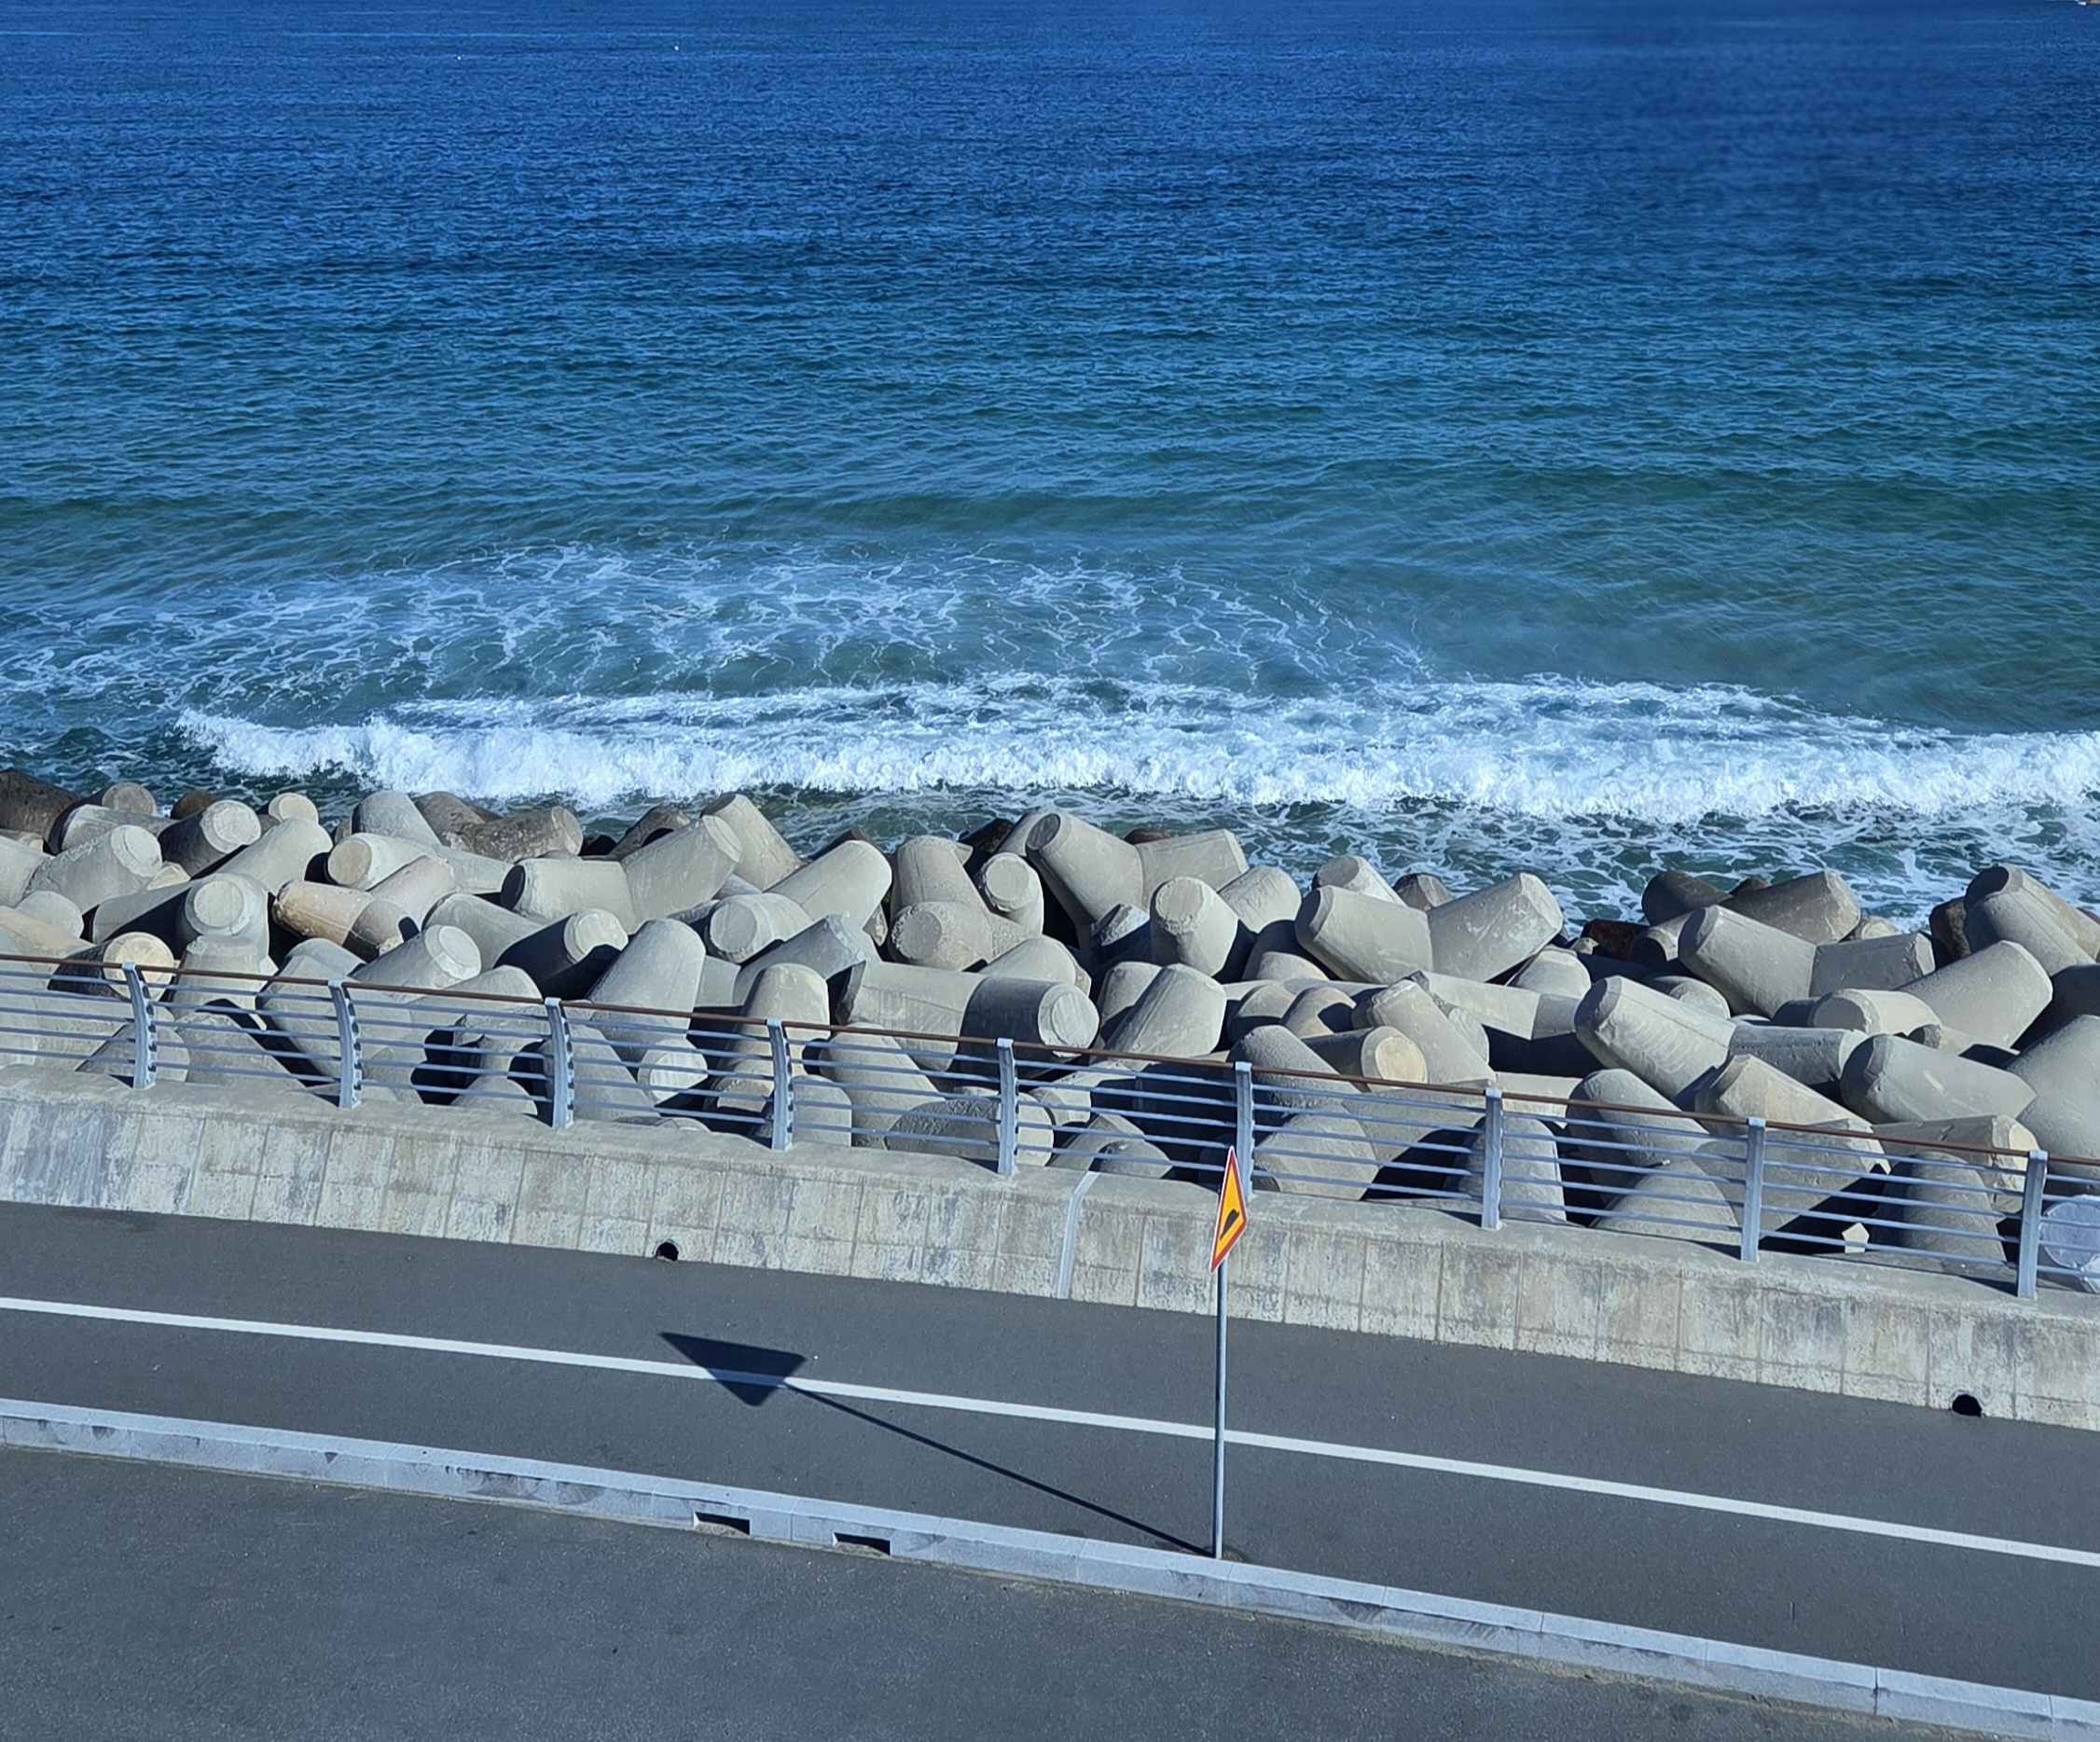
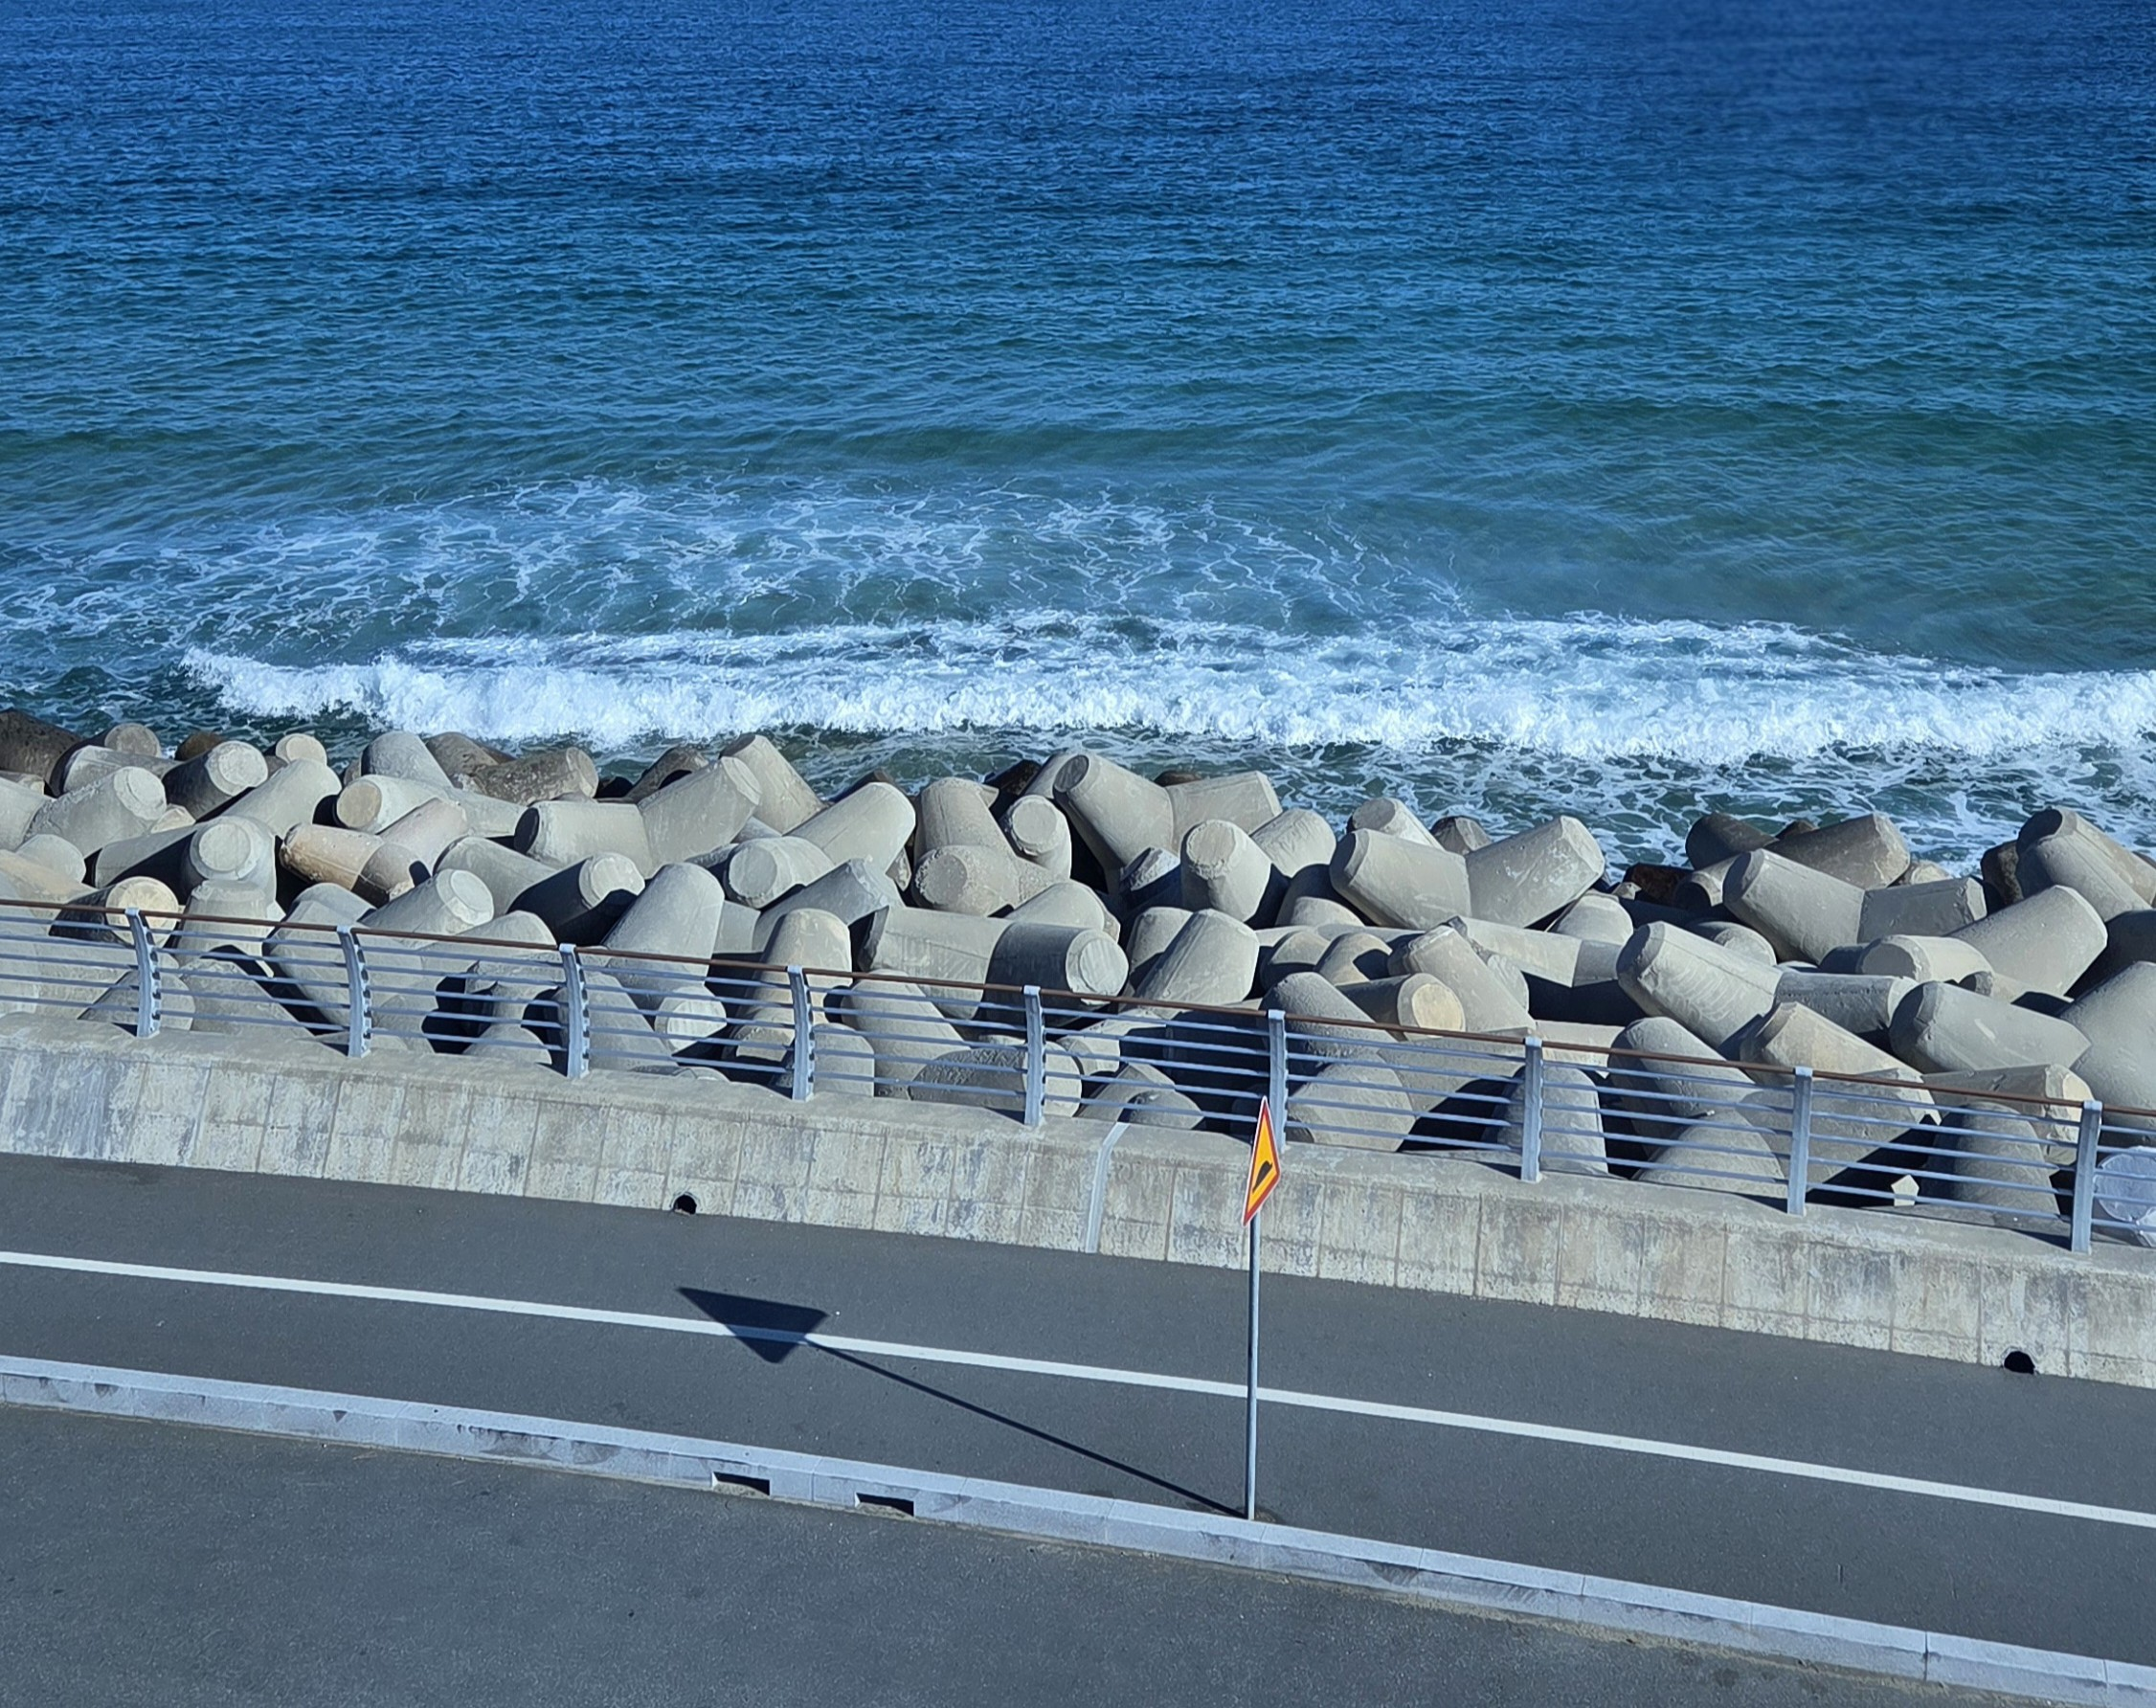
Design: home page

diff --git a/assets/built/home.custom.css b/assets/built/home.custom.css
@@ -111,25 +111,16 @@ html {
 }
 
 .home-template .post-feed .post-card.profile-summary-card h2.profile-summary-title {
-    margin: 0 0 0.9rem;
+    margin: 1.0rem 0.0rem 2.0rem 0.9rem;
     font-size: 2.0rem;
     line-height: 1.25;
     letter-spacing: -0.02em;
 }
 
 .home-template .post-feed .profile-summary-card .profile-summary-line {
-    margin: 0.85rem 0 0.35rem;
+    margin: 0.35rem 0 0.35rem;
     font-size: 1.5rem;
     line-height: 1.5em;
-}
-
-.home-template .post-feed .profile-summary-card .profile-summary-body .profile-summary-line:nth-of-type(1),
-.home-template .post-feed .profile-summary-card .profile-summary-body .profile-summary-line:nth-of-type(3) {
-    margin-bottom: 1.75rem;
-}
-
-.home-template .post-feed .profile-summary-card .profile-summary-body .profile-summary-line:nth-of-type(2) {
-    margin-bottom: 0.00rem;
 }
 
 .skill-meter-list {
@@ -153,7 +144,7 @@ html {
 }
 
 .profile-skill-logo-list {
-    margin-top: 0.45rem;
+    margin-top: 2.45rem;
     display: flex;
     flex-wrap: wrap;
     gap: 0.9rem;

diff --git a/index.html b/index.html
@@ -46,8 +46,7 @@
                             <img class="profile-passport" src="/assets/built/images/kangkyungeun.png" alt="Profile placeholder" />
                             <div class="profile-summary-body">
                                 <span class="post-card-tags">Profile</span>
-                                <h2 class="profile-summary-title">강경은 | SIRIS</h2>
-                                <p class="profile-summary-line"><strong>"안녕하세요, HW와 SW를 잇는 개발자 강경은입니다."</strong></p>
+                                <h2 class="profile-summary-title">"HW와 SW를 잇는 개발자 강경은 입니다"</h2>
                                 <p class="profile-summary-line"><strong>🎓</strong> 경희대학교 전자공학/소프트웨어융합학 학사</p>
                                 <p class="profile-summary-line"><strong>💼</strong> 삼성청년SW·AI아카데미(SSAFY) Embedded 14기</p>
                                 <div class="profile-skill-logo-list">